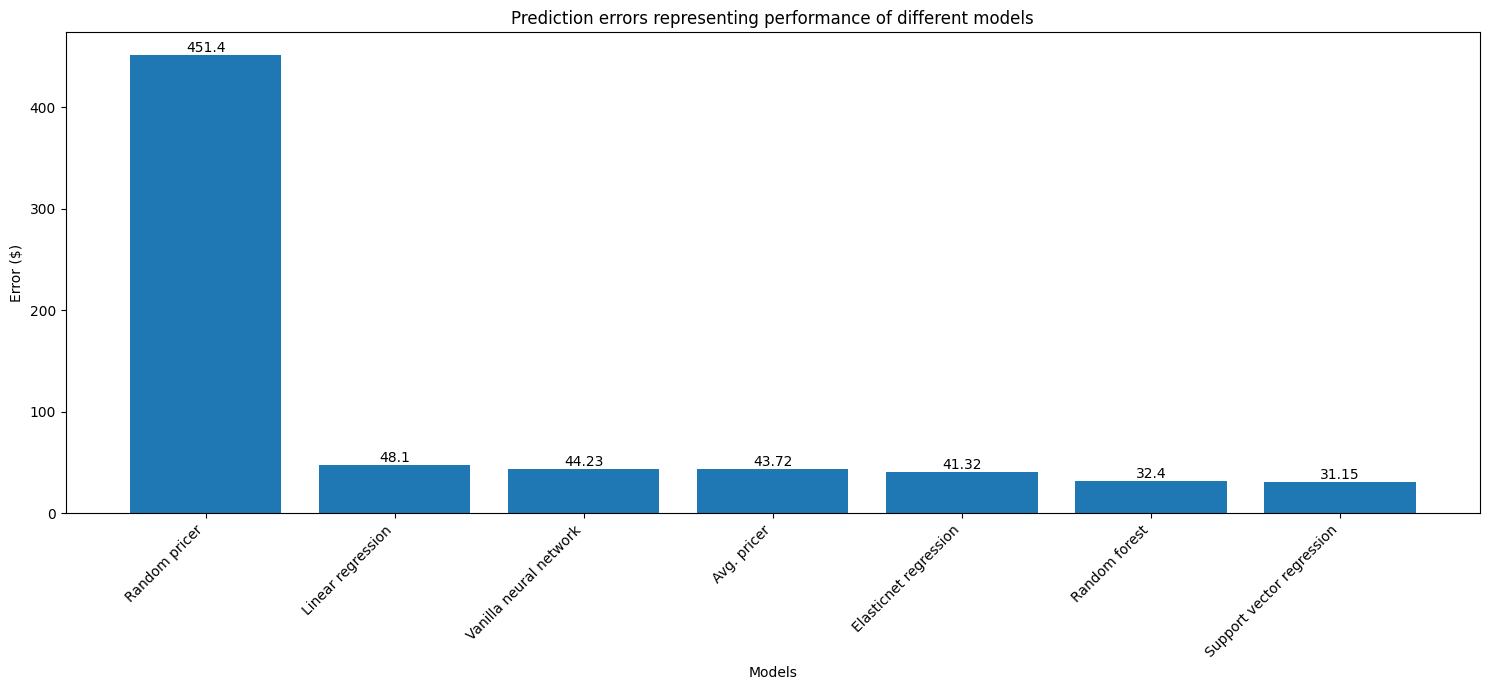
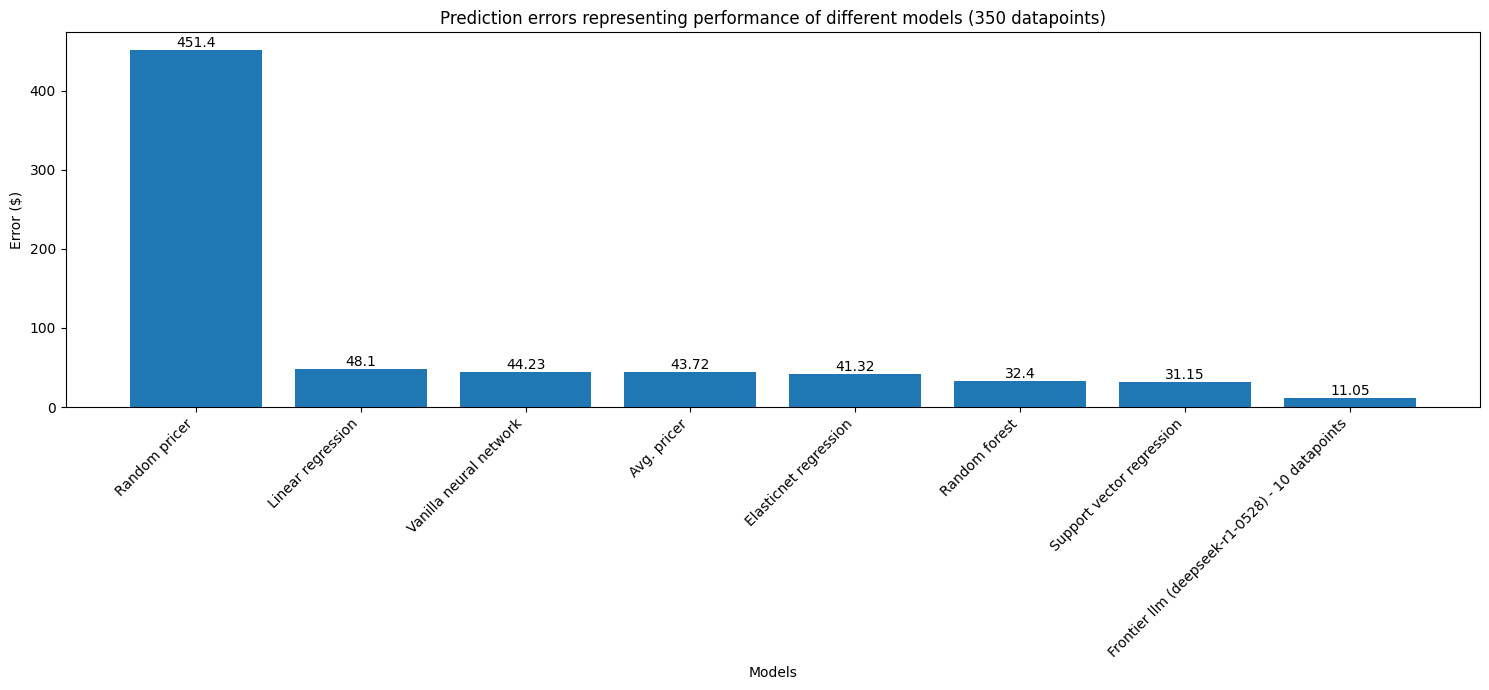
AI Pricer - Added frontier llm results

diff --git a/README.md b/README.md
@@ -1,6 +1,31 @@
 # AI Pricer
 Predict the price of Amazon product by providing its description.
 
+# Project setup
+
+- Install required dependencies
+
+```bash
+pip install -r requirements.txt
+```
+
+- Create `.env` file in repo root directory and set the following values
+
+```bash
+
+# openrouter
+OPENROUTER_BASE_URL=https://openrouter.ai/api/v1
+OPENROUTER_API_KEY=<api-key>
+
+# huggingface
+HF_TOKEN=<hf-token>
+HF_PREPROCESSED_DATASET_REPO_ID=<dataset-repo-id>
+
+# openai
+OPENAI_API_KEY=<api-key>
+
+```
+
 # Handling dataset
 
 - To download the dataset, execute this command from repo root directory
